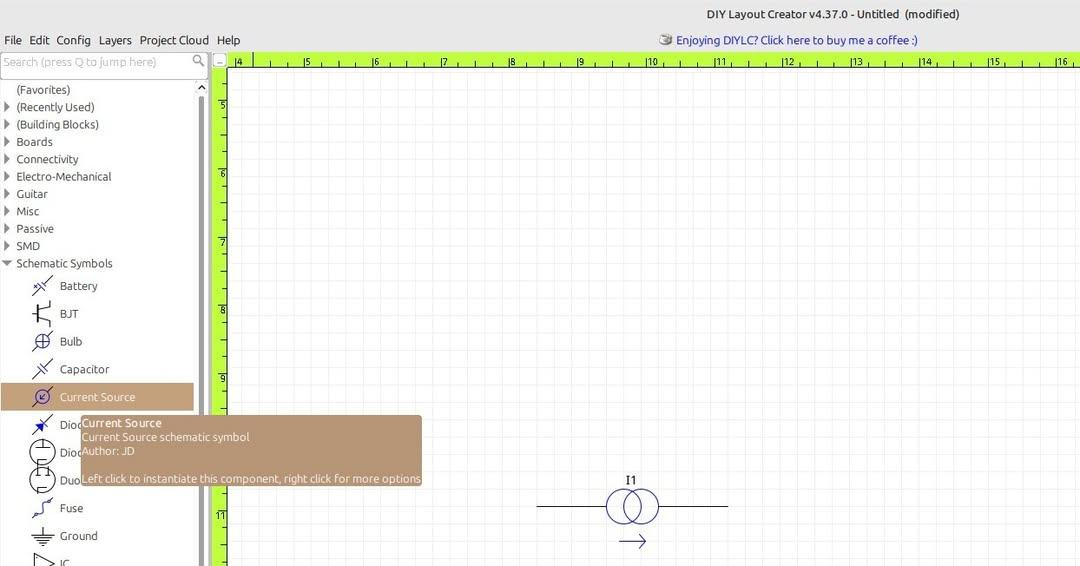
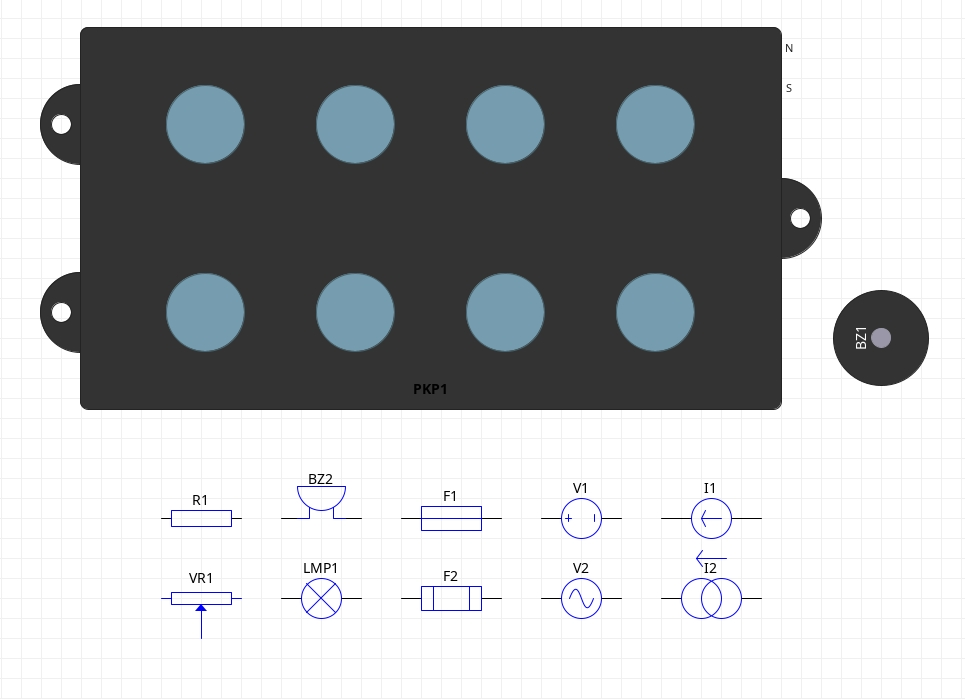
Update DIYLC contributions

diff --git a/src/floss-contributions.md b/src/floss-contributions.md
@@ -11,12 +11,13 @@ Here's a couple of my more notable contributions, but I have sent in smaller bug
 
 ## Components for DIYLC
 
-These were my first ever open source contributions. They're only simple components, but the Java 2D API was a good challenge for a budding developer.
-I ended up adding a Voltage Source Symbol, Current Source Symbol (pictured), Bulb, Stingray Pickup, Buzzer Symbol and fixes/additions to the Resistor and Battery Symbols.
+This was my first ever open source contribution. I made Current Source Schematic symbol, and promptly followed up with making a Voltage Source Schematic Symbol. I needed then for a personal project (that I am still working on...) and thought I'd try my hand at it.
 
-![](/img/diylc-contribs.jpg)
+I ended up adding a fair few more parts, especially schematic ones and their IEC variants. They're only simple, but the Java 2D API was a good challenge for a budding developer. <br> 
 
-I even made some video tutorials in the end to help others get involved with contributing: <https://www.youtube.com/watch?v=a0dkfJJ4AgM&list=PLrKmpWTE8iQUW0RJYVDU6CNvc71-J55lI>
+![My contributions to DIYLC.](/img/diylc-contribs.jpg)
+
+I even made some [video tutorials](https://www.youtube.com/watch?v=a0dkfJJ4AgM&list=PLrKmpWTE8iQUW0RJYVDU6CNvc71-J55lI) to help others get involved with contributing. Sadly they're now outdated given DIYLC has switched to a Maven build system, but at least we don't need to use Eclipse anymore!
 
 ## Porting Textadept to Haiku
 
